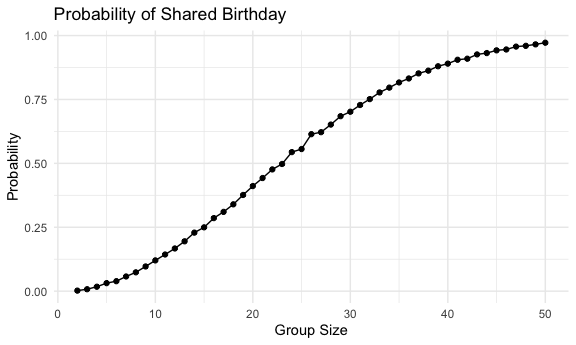
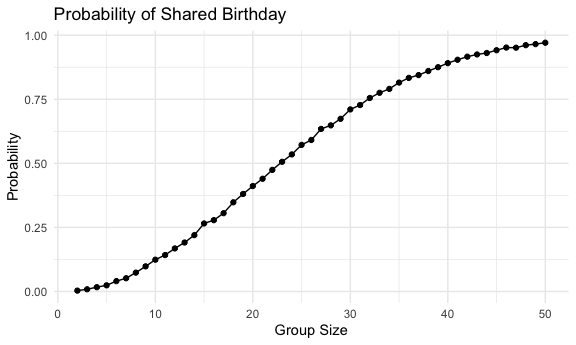
updated fig font size

diff --git a/p8105_hw5_ml5218.md b/p8105_hw5_ml5218.md
@@ -22,17 +22,7 @@ library(tidyverse)
 ``` r
 #library(patchwork)
 #library(dplyr)
-library(rvest)
-```
-
-    ## 
-    ## Attaching package: 'rvest'
-    ## 
-    ## The following object is masked from 'package:readr':
-    ## 
-    ##     guess_encoding
-
-``` r
+# library(rvest)
 knitr::opts_chunk$set(
   fig.path = "figs/",
   fig.width = 6,
@@ -224,6 +214,8 @@ head(data, 10)
     ## # ℹ 6 more variables: victim_sex <chr>, city <chr>, state <chr>, lat <dbl>,
     ## #   lon <dbl>, disposition <chr>
 
+## Dataset Description
+
 The data was collected by the Washington Post on 52179 criminal
 homicides over the past decade in 50 of the largest American cities. It
 contains 12 variables:
@@ -237,6 +229,154 @@ contains 12 variables:
   (latitude and longitude)
 - `disposition`: indication of whether an arrest was made
 
+## Estimation of the proportion of unsolved homicides in Baltimore, MD
+
 ``` r
-# Create a city_state variable (e.g. “Baltimore, MD”) and then summarize within cities to obtain the total number of homicides and the number of unsolved homicides (those for which the disposition is “Closed without arrest” or “Open/No arrest”).
+homicide_summary <- 
+  data |> 
+  # Create a city_state variable (e.g. “Baltimore, MD”) 
+  mutate(
+    city_state = paste(str_trim(city), str_trim(state), sep = ", "),
+  ) |>
+  # summarize within cities to obtain the total number of homicides and the number of unsolved homicides (those for which the disposition is “Closed without arrest” or “Open/No arrest”).
+  group_by(city_state) |>
+  summarize(
+    total = n(),
+    unsolved = sum(tolower(str_trim(disposition)) %in% c("closed without arrest", "open/no arrest")),
+  )
+  
+# For the city of Baltimore, MD, use the prop.test function to estimate the proportion of homicides that are unsolved
+baltimore_data <- 
+  homicide_summary |> 
+  filter(
+    city_state == "Baltimore, MD"
+  ) 
+# save the output of prop.test as an R object
+baltimore_prop <-
+  prop.test(
+    x = pull(baltimore_data,unsolved),
+    n = pull(baltimore_data,total)
+  ) 
+# apply the broom::tidy to this object
+baltimore_prop |> 
+  broom::tidy() |> 
+  # pull the estimated proportion and confidence intervals from the resulting tidy dataframe
+  select(
+    estimate,
+    conf.low,
+    conf.high
+  )
 ```
+
+    ## # A tibble: 1 × 3
+    ##   estimate conf.low conf.high
+    ##      <dbl>    <dbl>     <dbl>
+    ## 1    0.646    0.628     0.663
+
+## Estimation of the proportion of unsolved homicides for all cities
+
+``` r
+prop_test <- function(unsolved, total) {
+  test_result <- prop.test(x = unsolved, n = total)
+  broom::tidy(test_result) |>
+    select(estimate, conf.low, conf.high)
+}
+
+props <- 
+  homicide_summary |>
+  # run prop.test for each of the cities in your dataset, and extract both the proportion of unsolved homicides and the confidence interval for each.
+  mutate(
+    results = map2(
+      .x = unsolved, 
+      .y = total,    
+      .f = prop_test
+    )
+  ) |>
+  #  list columns and unnest as necessary to create a tidy dataframe with estimated proportions and CIs for each city.
+  unnest(results) 
+```
+
+    ## Warning: There was 1 warning in `mutate()`.
+    ## ℹ In argument: `results = map2(.x = unsolved, .y = total, .f = prop_test)`.
+    ## Caused by warning in `prop.test()`:
+    ## ! Chi-squared approximation may be incorrect
+
+``` r
+props
+```
+
+    ## # A tibble: 51 × 6
+    ##    city_state      total unsolved estimate conf.low conf.high
+    ##    <chr>           <int>    <int>    <dbl>    <dbl>     <dbl>
+    ##  1 Albuquerque, NM   378      146    0.386    0.337     0.438
+    ##  2 Atlanta, GA       973      373    0.383    0.353     0.415
+    ##  3 Baltimore, MD    2827     1825    0.646    0.628     0.663
+    ##  4 Baton Rouge, LA   424      196    0.462    0.414     0.511
+    ##  5 Birmingham, AL    800      347    0.434    0.399     0.469
+    ##  6 Boston, MA        614      310    0.505    0.465     0.545
+    ##  7 Buffalo, NY       521      319    0.612    0.569     0.654
+    ##  8 Charlotte, NC     687      206    0.300    0.266     0.336
+    ##  9 Chicago, IL      5535     4073    0.736    0.724     0.747
+    ## 10 Cincinnati, OH    694      309    0.445    0.408     0.483
+    ## # ℹ 41 more rows
+
+### Visualization of the estimates and CIs
+
+``` r
+# Create a plot that shows the estimates and CIs for each city
+
+props |> 
+  mutate(
+    # Organize cities according to the proportion of unsolved homicides.
+    city_state = reorder(city_state, estimate)
+  ) |> 
+  ggplot(aes(x = city_state, y = estimate)) +
+  geom_point(size = 1) + 
+  # add geom_errorbar for a way to add error bars based on the upper and lower limits
+  geom_errorbar(
+    aes(ymin = conf.low, ymax = conf.high), 
+    width = 0.3,  
+  ) +
+  labs(
+    title = "Proportion of Unsolved Homicides by City",
+    x = "City",
+    y = "Estimated Proportion of Unsolved Homicides",
+    caption = "Error bars represent the 95% confidence intervals"
+  ) +
+  theme(
+    # rotate and adjust size of x-axis labels
+    axis.text.x = element_text(angle = 45, hjust = 1, size = 6)
+  )
+```
+
+<img src="figs/unnamed-chunk-8-1.png" width="90%" />
+
+Flip the axises for better view:
+
+``` r
+props |> 
+  mutate(
+    # Organize cities according to the proportion of unsolved homicides.
+    city_state = reorder(city_state, estimate)
+  ) |> 
+  ggplot(aes(x = city_state, y = estimate)) +
+  geom_point(size = 1) + 
+  # add geom_errorbar for a way to add error bars based on the upper and lower limits
+  geom_errorbar(
+    aes(ymin = conf.low, ymax = conf.high), 
+    width = 0.8,  
+  ) +
+  labs(
+    title = "Proportion of Unsolved Homicides by City",
+    x = "City",
+    y = "Estimated Proportion of Unsolved Homicides",
+    caption = "Error bars represent the 95% confidence intervals"
+  ) +
+  coord_flip()+
+  theme(
+    # rotate and adjust size of x-axis labels
+    axis.text.y = element_text(size = 4)
+  )
+```
+
+<img src="figs/unnamed-chunk-9-1.png" width="90%" />
